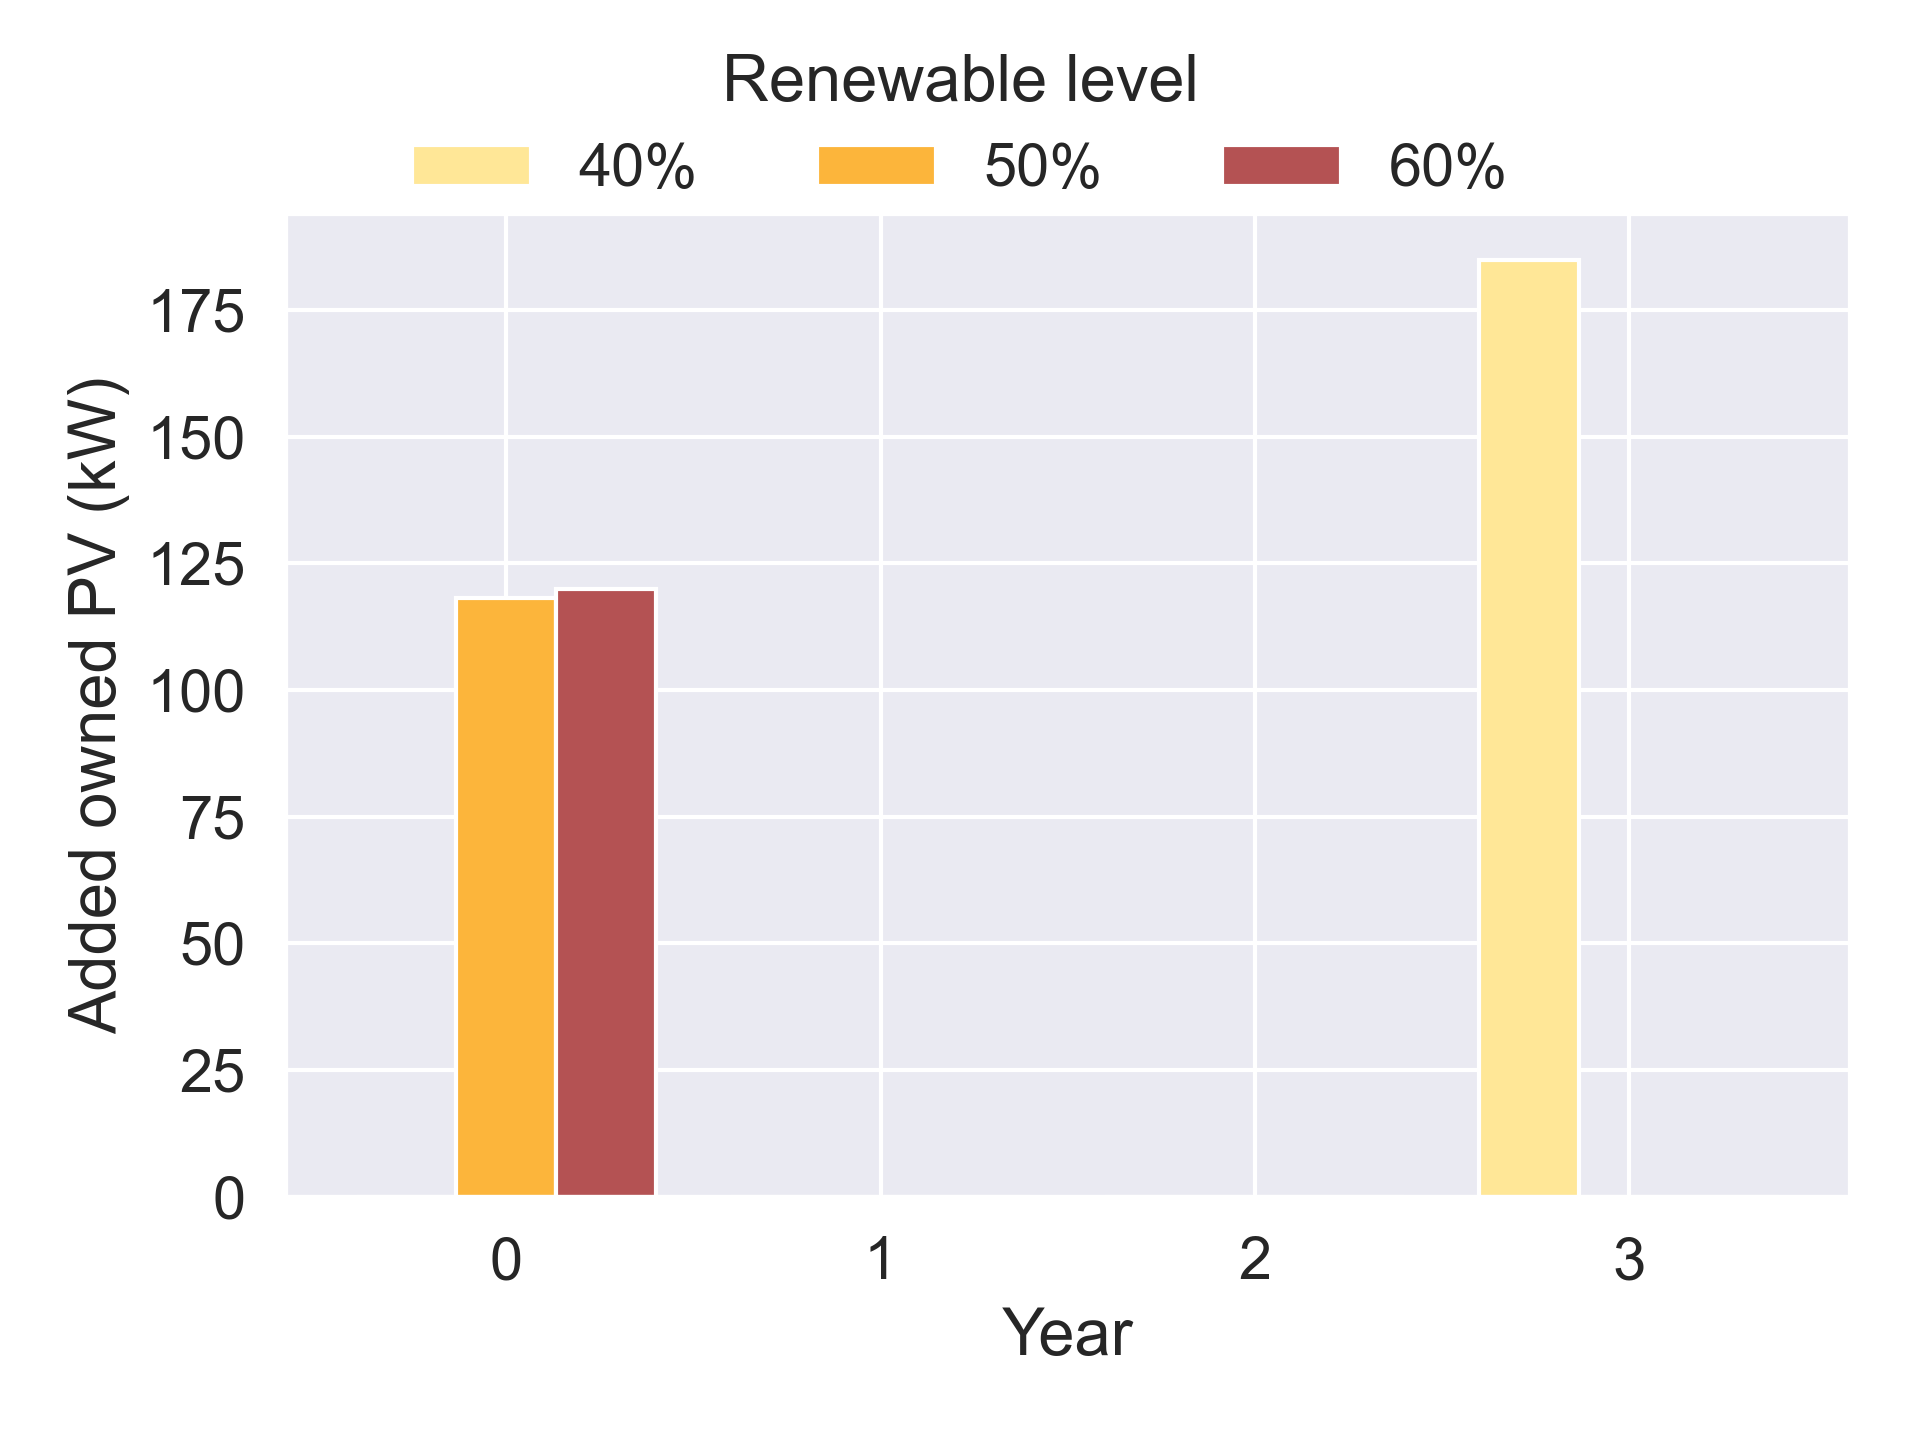
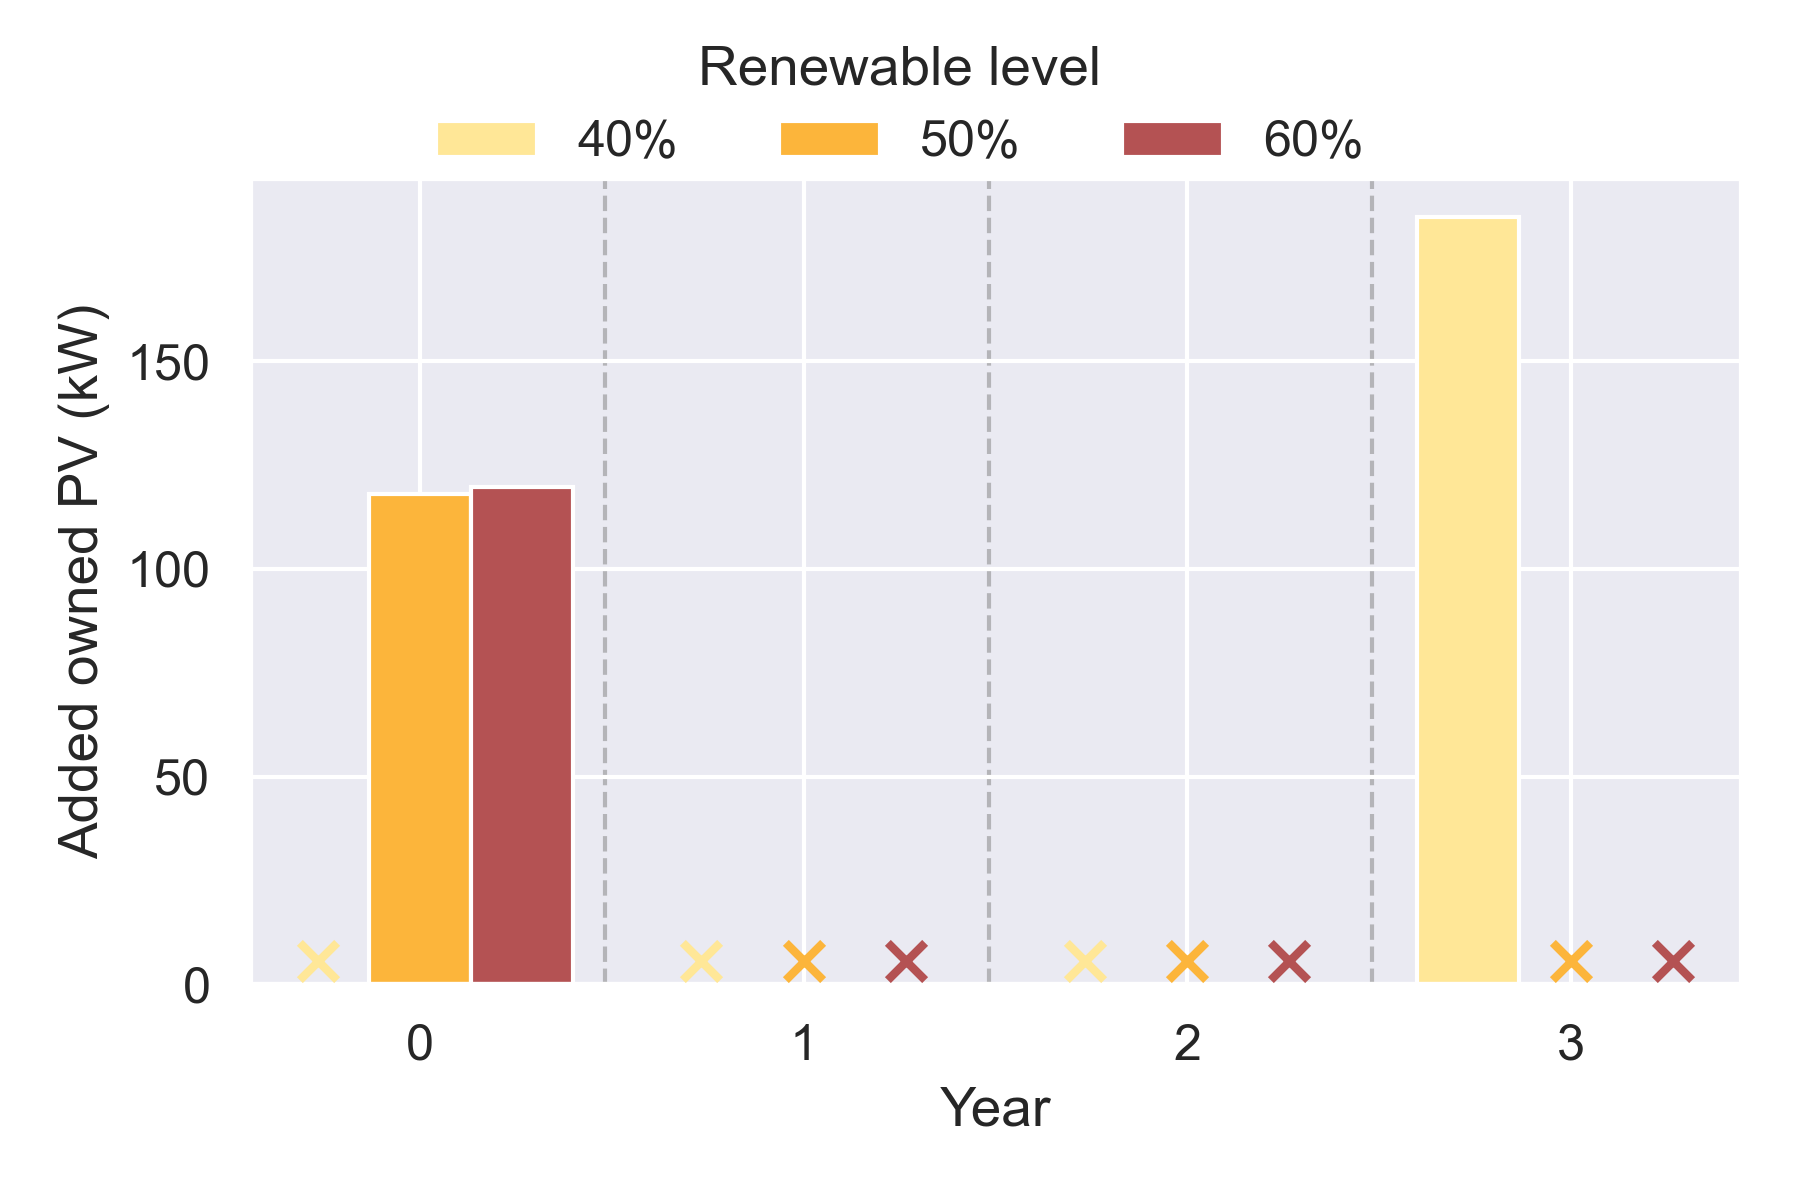
Improve display of investment in PV under different RE targets

diff --git a/plot_functions.py b/plot_functions.py
@@ -1704,7 +1704,7 @@ def hs_comp(casePath):
     
 def inv_comp(casePath, outPaths):
     
-    sns.set(font_scale=1.3)
+    sns.set(font_scale=1.1)
     
     new_plots_folder = os.path.join(casePath, 'Investment comp.png')
     fig, ax = plt.subplots()
@@ -1724,18 +1724,46 @@ def inv_comp(casePath, outPaths):
     n_bars = len(pv_invs)
     bar_width = 0.8 / n_bars                
     
-    x = np.arange(n_groups)                 
+    x = np.arange(n_groups)            
     colors = ["#FFE797", "#FCB53B", "#B45253"]
     for i, (label, values) in enumerate(pv_invs.items()):
-        ax.bar(x + i * bar_width, values, width=bar_width, label=label,
-               color=colors[i])
-        
+        for j, val in enumerate(values):
+            xpos = x[j] + i * bar_width
+    
+            if val == 0:
+                ax.scatter(
+                    xpos, 
+                    0.03 * max(map(max, pv_invs.values())),
+                    marker='x',
+                    color=colors[i],
+                    s=80,
+                    linewidths=2,
+                    zorder=3
+                )
+            else:
+                ax.bar(
+                    xpos, val,
+                    width=bar_width,
+                    label=label, # if j == 0 else "",
+                    color=colors[i]
+                )
+                
+    for sep in x[:-1] + 0.75:
+        ax.axvline(
+            sep,
+            linestyle='--',
+            linewidth=1,
+            color='gray',
+            alpha=0.5,
+            zorder=0
+        )
+    
     ax.set_xticks(x + bar_width * (n_bars - 1) / 2)
     ax.set_xticklabels(x_labels)
     ax.set_ylabel('Added owned PV (kW)')
     ax.set_xlabel('Year')
     ax.legend(title='Renewable level', loc='upper center', 
-              bbox_to_anchor=(0.5, 1), ncol=4,
+              bbox_to_anchor=(0.5, 1), ncol=3,
               bbox_transform=fig.transFigure,
               frameon=False)
     plt.tight_layout()
@@ -1749,7 +1777,7 @@ def inv_comp(casePath, outPaths):
 cwd = os.getcwd()
 outFile = os.path.join(cwd, "Outputs")
 outFile_0 = os.path.join(outFile, '0. Current Case', 'Output_0_40.xlsx')
-
+'''
 # Current Case
 add_ret(outFile_0, multi=0)
 gen_year(outFile_0, multi=0)
@@ -1798,18 +1826,19 @@ for _, row in emFile_1.iterrows():
                                 f'Output_{fit}_{price}.xlsx')
     rep_day(outPath_day, 10, 1, 1)
 
-
+'''
 # RE sensitivity ~~~~~~~~~~~~~~~~~~~~~~~~~~~~~~~~~~~~~~~~~~~~~~~~~~~~~~~~~~~~~#
 outFile_2 = os.path.join(outFile, "2. RE sensitivity")
-
+'''
 fit_v_price(outFile_2)
 
 current_budget = 400000
 re_levels = [0, 0.1, 0.2, 0.3, 0.4, 0.5, 0.6]
 
 summaryPath_2_1 = os.path.join(outFile_2, 'Summary.xlsx')
+'''
 outFile_2_1 = os.path.join(outFile_2, 'Grid Search')
-    
+'''
 for re_level in re_levels:
     surp_heatmap(outFile_2_1, re_level, max_fits=summaryPath_2_1, lb = 0.25)
     
@@ -1817,6 +1846,7 @@ energy_sensitivity(outFile_2_1, 're', re_levels)
 capacity_sensitivity(outFile_2_1, 're', re_levels)
 re_comp(outFile_2_1, index='re', addCurrent=outFile_0)
 min_v_act_RE([outFile_2_1])
+'''
 endOutPaths = [os.path.join(outFile_2_1, "Output Files", re) 
                for re in ['40', '50', '60']]
 outNames = ["Output_11_35.xlsx", "Output_10_35.xlsx", "Output_18_40.xlsx"]
@@ -1825,7 +1855,7 @@ for i in range(len(outNames)):
     outPaths.append(os.path.join(endOutPaths[i], outNames[i]))
 inv_comp(outFile_2, outPaths)
     
-
+'''
 for budget in keys:
   outFile_2_b = os.path.join(outFile_2, 'Feasible Region', str(budget))
   fit_v_price(outFile_2_b, search='re')
@@ -1869,3 +1899,4 @@ for perc in percs_str:
                                         "Output_0_40.xlsx"))
 
 re_comp(outFile_5, index='pros', addCurrent = base_casePaths)
+'''
